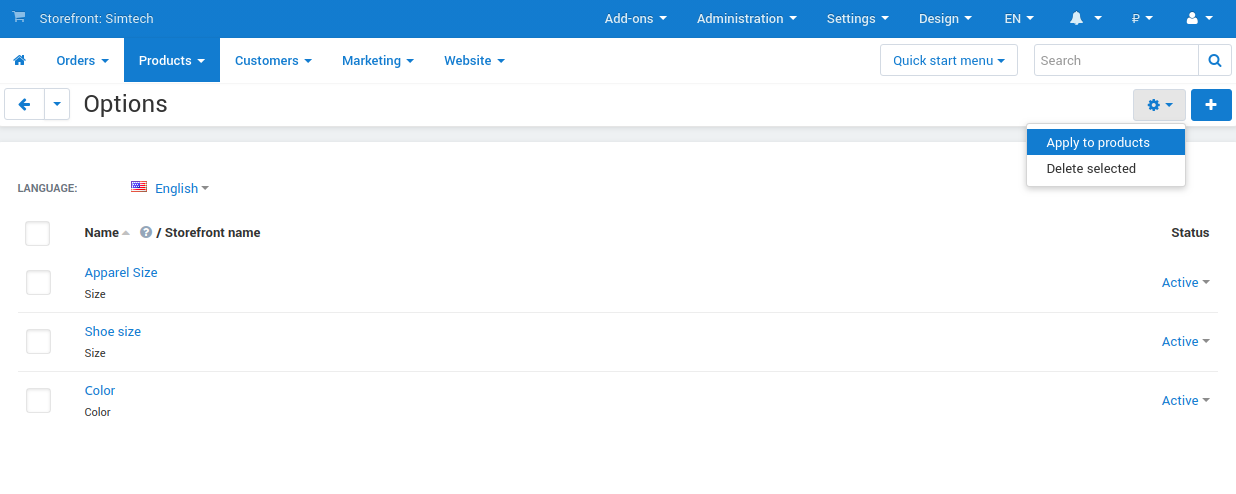
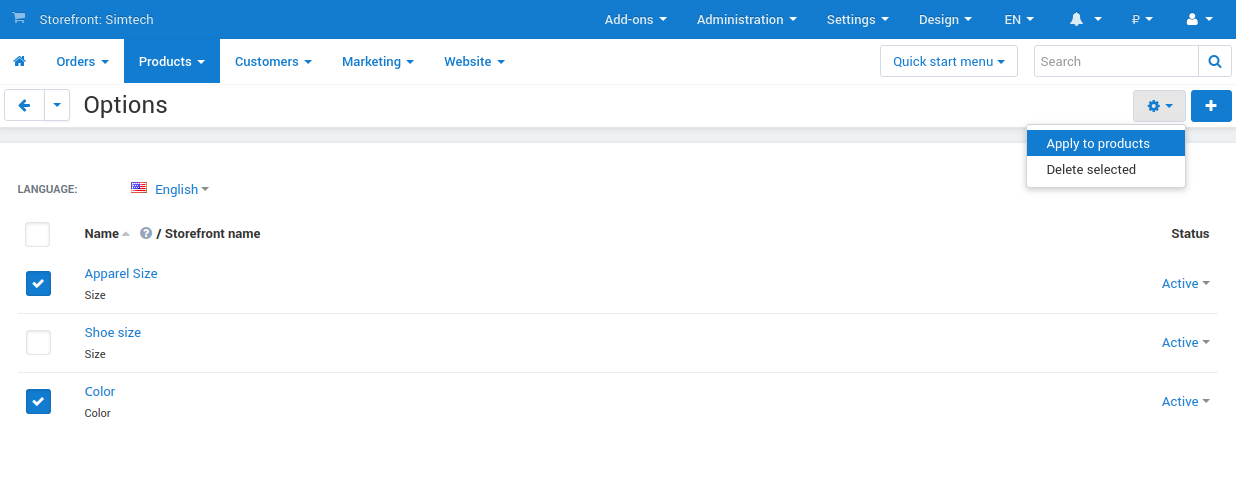
Options edits

diff --git a/ru/user_guide/manage_products/options/global_options.rst b/ru/user_guide/manage_products/options/global_options.rst
@@ -10,14 +10,16 @@
 
        Если вы ещё не :doc:`создали опцию у товара </user_guide/manage_products/options/product_options>`, то вы сможете это сделать здесь же.
 
-#. Нажмите на кнопку с изображением шестерёнки в правой верхней части страницы и выберите **Применить к товарам**. Откроется новая страница, где вы сможете выбрать, какие опции применить, и к каким товарам.
+#. Выделите галочками нужные опции. Нажмите на кнопку с изображением шестерёнки в правой верхней части страницы и выберите **Применить к товарам**.
 
    .. fancybox:: img/apply_to_products_01.png
        :alt: Применение глобальной опции к нескольким товарам в CS-Cart
 
-#. Нажмите кнопку **Добавить товары** и выберите товары, к которым вы хотите применить опции.
+#. Откроется новая страница со списком опций. Здесь вы можете выбрать те опции, которые забыли добавить, или удалить опции, которые добавили ошибочно на предыдущей странице. 
 
-#. Отметьте галочками опции, которые вы хотите применить.
+#. Нажмите кнопку **Добавить товары**.
+
+#. Выберите товары, к которым вы хотите применить опции и нажмите **Добавить товары и закрыть** или **Добавить товары**.
 
 #. Нажмите кнопку **Применить** в правой верхней части страницы.
 

diff --git a/en/user_guide/manage_products/options/global_options.rst b/en/user_guide/manage_products/options/global_options.rst
@@ -9,16 +9,18 @@ If most of your products need to have the same option, you can create this produ
    .. note::
 
        If you haven't :doc:`created a product option yet </user_guide/manage_products/options/product_options>`, you'll be able to do it here as well.
-
-#. Click the gear button in the upper right part of the page and choose **Apply to products**. This will open a new page where you'll be able to select which options to apply, and to which products.
+       
+#. Tick the checkboxes of the options you need. Click the gear button in the upper right part of the page and choose **Apply to products**.
 
    .. image:: img/apply_to_products_01.png
        :align: center
        :alt: Apply a global option to multiple products in CS-Cart
 
-#. Click the **Add products** button and choose the products to which you want to apply options.
+#. On the new page you can add the options you forgot to add on the previous page, or remove ones that you selected by mistake.
 
-#. Tick the checkboxes of the options you'd like to apply.
+#. Click the **Add products** button.
+
+#. Choose the products to which you want to apply options and click **Add products and close** or **Add products**.
 
 #. Click the **Apply** button in the upper right part of the page.
 
